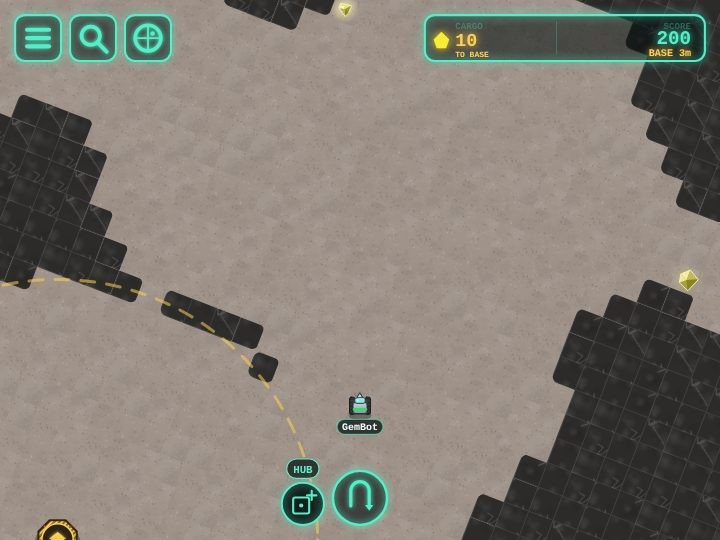
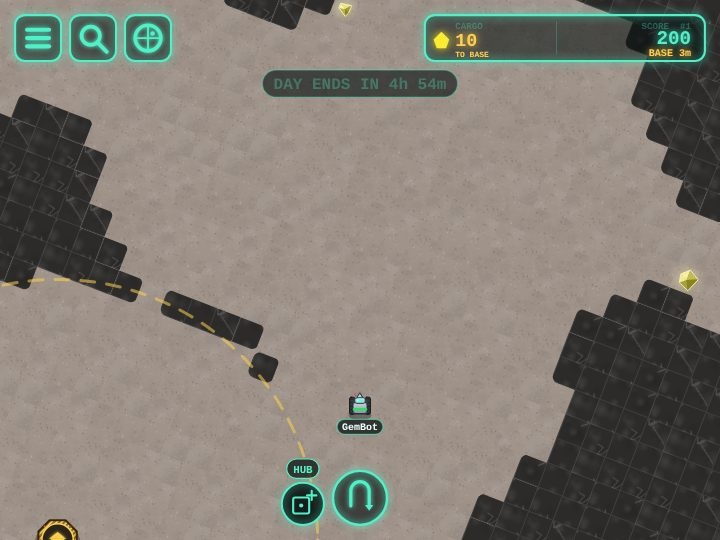
How to Play: own picture per slide, small text fixes
- New screenshots instead of reused ones: parked on a hub (SHIP/TRAVEL),
  a shipment paying a toll over another player's hub, earning a toll
  (score blinks), the player menu, the follow arrow, and the last hour
  with yesterday's winner's crown. The day picture now shows a normal clock.
- Texts: stray ")" removed, "Here are some extra rules", "Hubs light up
  the mine for 100 tiles around them".

Claude-Session: https://claude.ai/code/session_01DpdrSrH8qNgioHB6FWt1fL

Changed region(s): [[0.3667, 0.1185, 0.6417, 0.2074], [0.8861, 0.0296, 0.9472, 0.0593]]

diff --git a/app/static/howto.js b/app/static/howto.js
@@ -11,7 +11,7 @@ const SLIDES = [
     {
         title: "You are a GemBot. Your goal is to collect gems.",
         imgs: [{ shot: "gem", marks: ["gem:ring", "gem:arrow-down"] }],
-        lines: ["Drive over a gem to mine it.", "It goes into your <b>cargo</b>).", "A mined gem is gone for <b>everyone</b>."],
+        lines: ["Drive over a gem to mine it.", "It goes into your <b>cargo</b>.", "A mined gem is gone for <b>everyone</b>."],
     },
     {
         title: "Bring gems to the base to score points.",
@@ -36,7 +36,7 @@ const SLIDES = [
     },
     {
         title: "Park on a hub to ship or travel.",
-        imgs: [{ shot: "travel", marks: ["ship:box", "travel:box"] }],
+        imgs: [{ shot: "park", marks: ["ship:box", "travel:box"] }],
         lines: ["Stand still on a hub (or the base).", "<b>SHIP</b> sends your cargo home on a cart (it shows the <b>tolls</b> on the way).", "<b>TRAVEL</b> turns travel mode on."],
     },
     {
@@ -51,16 +51,16 @@ const SLIDES = [
     },
     {
         title: "Tolls are calculated for both yourself and for cargo.",
-        imgs: [{ shot: "travel", marks: ["tollPill:box", "tollPill:arrow-down"] }],
+        imgs: [{ shot: "tolls", marks: ["ship:box", "hub:ring"] }],
         lines: ["Each hub of someone else on your trip costs <b>1</b>.", "Your own hubs and the base are free."],
     },
     {
         title: "Earn tolls from your hubs.",
-        imgs: [{ shot: "day", marks: ["score:box", "score:arrow-up"] }],
+        imgs: [{ shot: "earn", marks: ["score:box", "hub:ring"] }],
         lines: ["You earn toll from players riding over <b>your hubs</b>.", "Gems shipped over them pay you too.", "Your <b>score blinks</b> when a toll comes in."],
     },
     {
-        title: "Hubs light up the mine up to 100 tiles.",
+        title: "Hubs light up the mine for 100 tiles around them.",
         imgs: [{ shot: "dim", marks: [] }],
         lines: ["When you go further from the closest hub, it gets darker.", "At <b>150</b> you get a short warning."],
     },
@@ -86,12 +86,12 @@ const SLIDES = [
     },
     {
         title: "You can block players; just click on them.",
-        imgs: [{ shot: "chat", marks: ["other:box"] }],
+        imgs: [{ shot: "pmenu", marks: ["block:box"] }],
         lines: ["There you can <b>block</b> their chat.", "Blocking only hides bubbles for <b>you</b>."],
     },
     {
         title: "Follow a friend.",
-        imgs: [{ shot: "chat", marks: ["other:box"] }],
+        imgs: [{ shot: "follow", marks: ["arrow:ring", "nova:box"] }],
         lines: ["Tap another robot (or open the players list) and choose <b>Follow</b>.", "A <b>black arrow</b> with a stripe in their colour points at them.", "They are told. Inactive players can't be followed."],
     },
     {
@@ -100,8 +100,8 @@ const SLIDES = [
         lines: ["A <b>new mine</b> opens every day, the same for everyone.", "Up to <b>100 players</b> dig together.", "The most <b>banked</b> gems at midnight wins."],
     },
     {
-        title: "Here's some extra rules.",
-        imgs: [{ shot: "day", marks: ["clock:box"] }],
+        title: "Here are some extra rules.",
+        imgs: [{ shot: "rush", marks: ["crown:box", "clock:box"] }],
         lines: ["The winner wears a <b>crown</b> the next day.", "In the <b>last hour</b>, every gem is worth <b>double</b>.", "The clock shows how long the day has left."],
     },
     { title: "Handy keys (when you're on desktop).", custom: "keys" },
